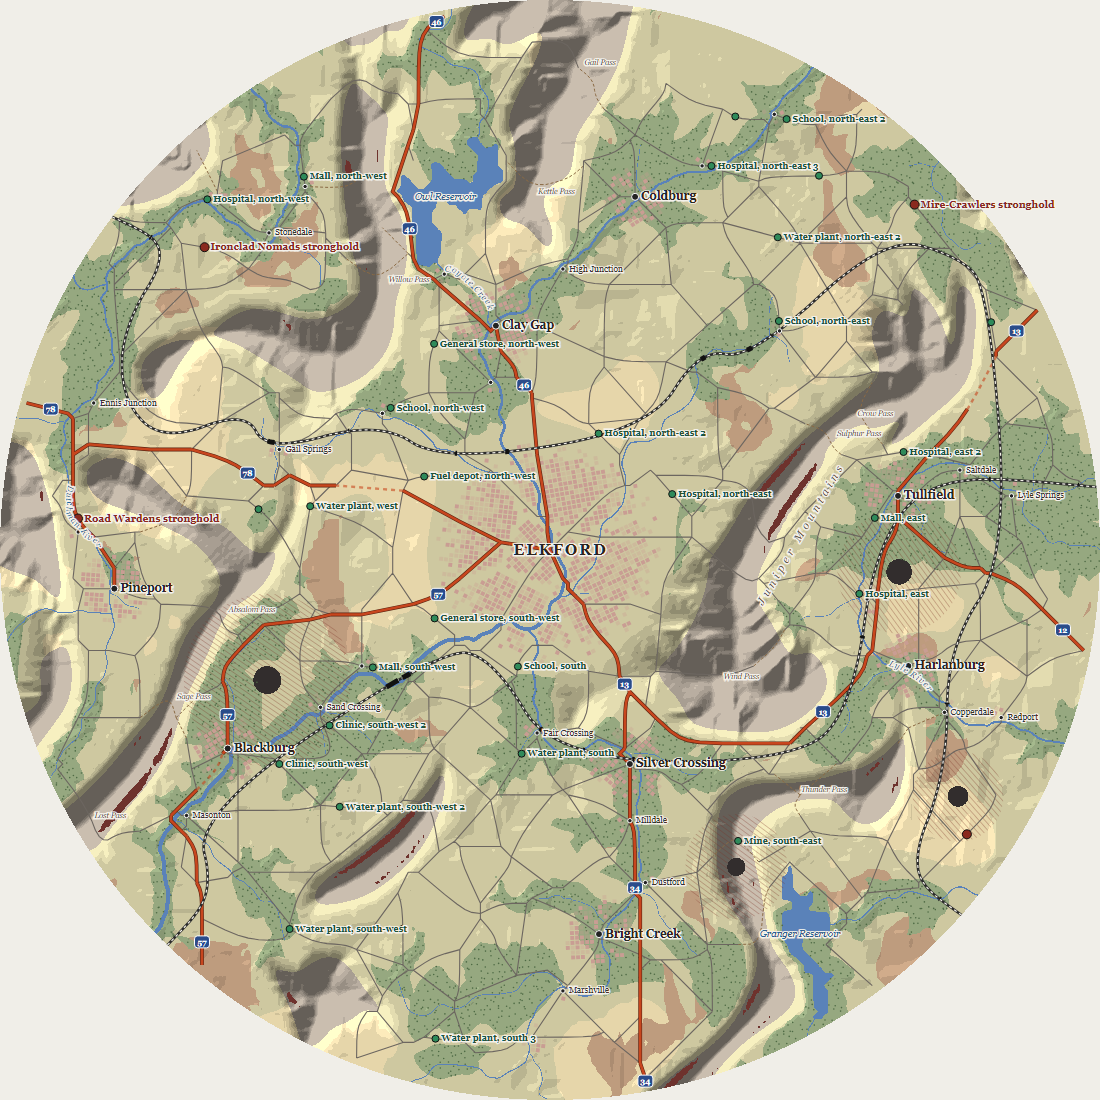
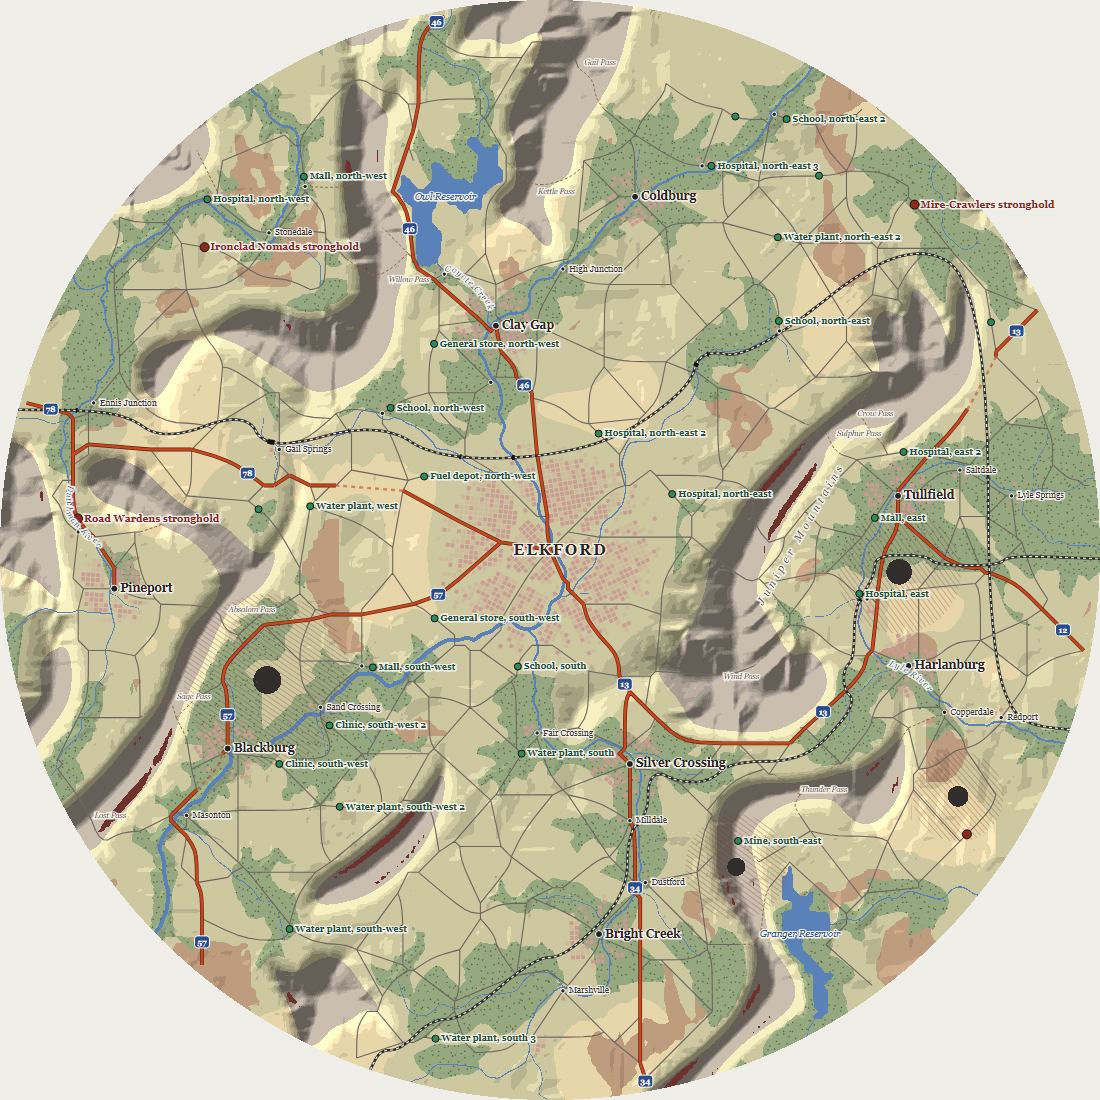
Let rails choose their ends along the rim, and redraw lines that double back or run beside another
Each end is any open cell within its window, so a line leaves the map the way it arrives instead of hooking round to a fixed point. A line that turns back on itself or runs within 30 units of an earlier one for over 300 is redrawn, up to six tries, the first end turned on later ones and the last without the rim cost. The coarse field is built only inside the disc, and the search's distance guess is worked out once a cell.

diff --git a/src/renderer/game/map/RailLines.ts b/src/renderer/game/map/RailLines.ts
@@ -1,5 +1,5 @@
 import type { Rng } from '../core/Rng';
-import { Vector, chaikin, pointAlong, polylineLength, unitVector } from './Geometry';
+import { Vector, chaikin, pointAlong, pointSegmentDistanceSquared, polylineLength, unitVector } from './Geometry';
 import { RELIEF } from './Land';
 import { LandGrid, cellAt, cellCentre } from './LandGrid';
 import { NodeHeap } from './NodeHeap';
@@ -36,20 +36,26 @@ export interface RailLine {
  *   earlier line, the move costs `apartCost` times as much, so lines keep
  *   apart, even down one valley, but can still cross. Past `rim.band` of
  *   the radius it costs `rim.cost` times more, so a line crosses the rim
- *   at its ends rather than running round it.
+ *   at its ends rather than running round it; the last try goes without
+ *   that, since it can leave no way across but back on itself.
  * - Each line's ends are rim points, the second `across` degrees round from
- *   the first, each the lowest of the bearings `spread` degrees either side
- *   in `step`-degree steps; the lines' first ends are spread evenly round
- *   half the rim from a drawn bearing.
+ *   the first: the search runs from any open cell just inside the rim within
+ *   `spread` degrees of one end's bearing, in `step`-degree steps, to any
+ *   within `spread` of the other's, so a line leaves the map the way it
+ *   arrives rather than hooking round to a set point. The lines' first ends
+ *   are spread evenly round half the rim from a drawn bearing.
  * - The path is simplified to `tolerance` coarse cells and cut by Chaikin
  *   `passes` times; where the curve clips a lake, crater, or cliff (sampled
  *   every `sample` world units) or puts a deck past `longestDeck` world
  *   units over a river, the next tolerance down is tried, then the cells
  *   themselves. Bridges are merged across gaps under `deckGap`.
- * - A line whose heading turns past `hairpin.dot` (the cosine between its
- *   direction at two points up to `hairpin.window` world units apart, -0.85
- *   being about 150 degrees) is dropped, and its second end drawn again, up to `tries`
- *   times.
+ * - A line is dropped, and drawn again, up to `tries` times in all, its
+ *   second end drawn afresh and, after the first try, its first turned up to
+ *   `turn` degrees either way, where it finds no way, where it doubles back (its heading, read
+ *   every `hairpin.step` world units, turns past `hairpin.dot`, about 150
+ *   degrees, within `hairpin.window`), or where it runs within
+ *   `beside.reach` world units of an earlier line for more than
+ *   `beside.most`, read every `beside.step`.
  */
 export const RAIL_LINES = {
 	coarse: 2,
@@ -62,7 +68,9 @@ export const RAIL_LINES = {
 	apartCost: 6,
 	rim: { band: 0.88, cost: 3 },
 	hairpin: { window: 200, dot: -0.85, step: 20 },
-	tries: 3,
+	beside: { reach: 30, most: 300, step: 10 },
+	tries: 6,
+	turn: 25,
 	across: { least: 140, most: 220 },
 	spread: 25,
 	step: 2.5,
@@ -110,14 +118,23 @@ export function railLines({ ground, grid, mountains, lowland, area, threshold, c
 		const own = rng.fork('rail', index);
 		const first = spin + 180 * index / count;
 		for (let attempt = 0; attempt < RAIL_LINES.tries; attempt += 1) {
+			// Both draws every try, so a try's ends never depend on whether an earlier one used its turn.
+			const turned = first + (attempt === 0 ? 0 : (own.float() * 2 - 1) * RAIL_LINES.turn);
 			const second = first + RAIL_LINES.across.least + (RAIL_LINES.across.most - RAIL_LINES.across.least) * own.float();
-			const line = field.lay(first, second);
+			const line = field.lay({ from: turned, to: second, rim: attempt < RAIL_LINES.tries - 1 });
 			if (line === null) continue;
 			lines.push(line);
 			break;
 		}
 	}
 	return lines;
+}
+
+/** A cell a line can start or end on, just inside the rim, and the rim point beyond it. */
+interface RimEnd {
+	readonly cell: number;
+	readonly rimX: number;
+	readonly rimY: number;
 }
 
 const NEIGHBOURS = [[1, 0], [-1, 0], [0, 1], [0, -1], [1, 1], [-1, 1], [1, -1], [-1, -1]] as const;
@@ -138,6 +155,10 @@ class RailField {
 	private readonly crowded: Uint8Array;
 	/** Per coarse cell, 1 past `rim.band` of the radius. */
 	private readonly outer: Uint8Array;
+	/** What a move past the rim band costs times, for the line being laid. */
+	private rimCost = 1;
+	/** The lines laid so far. */
+	private readonly laid: (readonly number[])[] = [];
 
 	constructor({ ground, grid, mountains, lowland, area, threshold }: Omit<RailLineOptions, 'count' | 'rng'>) {
 		this.ground = ground;
@@ -159,6 +180,8 @@ class RailField {
 			for (let column = 0; column < this.size; column += 1) {
 				const x = this.centre(column);
 				const cell = row * this.size + column;
+				// Past the reach a cell stays closed, so nothing about it is needed.
+				if (x * x + y * y > reach * reach) continue;
 				const under = cellAt(grid, x, y);
 				this.height[cell] = ground.elevation(x, y) * RELIEF;
 				this.mask[cell] = under < 0 ? 0 : mountains[under];
@@ -176,25 +199,29 @@ class RailField {
 					}
 				}
 				this.river[cell] = river;
-				this.open[cell] = x * x + y * y <= reach * reach && clear ? 1 : 0;
+				this.open[cell] = clear ? 1 : 0;
 				this.outer[cell] = x * x + y * y > band * band ? 1 : 0;
 			}
 		}
 	}
 
-	/** A line from the rim at bearing `from` to the rim at bearing `to`, or null where none fits. */
-	public lay(from: number, to: number): RailLine | null {
-		const start = this.endAt(from);
-		const end = this.endAt(to);
-		if (start === null || end === null || start.cell === end.cell) return null;
-		const cells = this.search(start.cell, end.cell);
+	/** A line from the rim at bearing `from` to the rim at bearing `to`, kept off the rim between them when `rim`, or null where none fits. */
+	public lay({ from, to, rim }: { from: number; to: number; rim: boolean }): RailLine | null {
+		this.rimCost = rim ? 1 + RAIL_LINES.rim.cost : 1;
+		const starts = this.endsAt(from);
+		const ends = this.endsAt(to);
+		if (starts.length === 0 || ends.length === 0 || starts.some(({ cell }) => ends.some((end) => end.cell === cell))) return null;
+		const cells = this.search(starts, ends);
 		if (cells === null) return null;
+		const start = starts.find(({ cell }) => cell === cells[0]) as RimEnd;
+		const end = ends.find(({ cell }) => cell === cells[cells.length - 1]) as RimEnd;
 		const path: number[] = [start.rimX, start.rimY];
 		for (const cell of cells) path.push(this.centre(cell % this.size), this.centre(floor(cell / this.size)));
 		path.push(end.rimX, end.rimY);
 		const points = this.smooth(path);
-		if (points === null || hairpin(points)) return null;
+		if (points === null || hairpin(points) || this.beside(points)) return null;
 		this.mark(cells);
+		this.laid.push(points);
 		return Object.freeze({ points: Object.freeze(points), length: polylineLength(points), bridges: Object.freeze(this.bridges(points)) });
 	}
 
@@ -202,52 +229,61 @@ class RailField {
 		return -this.halfExtent + (index + 0.5) * this.cellSize;
 	}
 
-	/** The lowest open cell just inside the rim within `spread` degrees of a bearing, and the rim point beyond it. */
-	private endAt(bearing: number): { cell: number; rimX: number; rimY: number } | null {
+	/** The open cells just inside the rim within `spread` degrees of a bearing, each with the rim point beyond it, each cell once. */
+	private endsAt(bearing: number): RimEnd[] {
 		const towards: Vector = { x: 0, y: 0 };
 		const inside = this.ground.radius - (RAIL_LINES.inset + 0.75) * this.cellSize;
-		let best: { cell: number; rimX: number; rimY: number } | null = null;
-		let lowest = Infinity;
-		// Out from the bearing asked for, either way in turn, so a tie goes to the nearer.
-		for (let offset = 0; offset <= 2 * RAIL_LINES.spread / RAIL_LINES.step; offset += 1) {
-			const turn = (offset % 2 === 0 ? 1 : -1) * floor((offset + 1) / 2) * RAIL_LINES.step;
+		const ends: RimEnd[] = [];
+		for (let turn = -RAIL_LINES.spread; turn <= RAIL_LINES.spread; turn += RAIL_LINES.step) {
 			unitVector(bearing + turn, towards);
 			const cell = this.cellOf(towards.x * inside, towards.y * inside);
-			if (cell < 0 || this.open[cell] === 0 || this.river[cell] === 1) continue;
-			if (this.height[cell] < lowest) {
-				lowest = this.height[cell];
-				best = { cell, rimX: towards.x * this.ground.radius, rimY: towards.y * this.ground.radius };
-			}
+			if (cell < 0 || this.open[cell] === 0 || this.river[cell] === 1 || ends.some((end) => end.cell === cell)) continue;
+			ends.push({ cell, rimX: towards.x * this.ground.radius, rimY: towards.y * this.ground.radius });
 		}
-		return best;
+		return ends;
 	}
 
 	private cellOf(x: number, y: number): number {
 		return cellAt({ size: this.size, cellSize: this.cellSize, halfExtent: this.halfExtent }, x, y);
 	}
 
-	/** A* from cell to cell over open cells, ties to the lower cell: the cells in order, or null when nothing joins them. */
-	private search(from: number, to: number): number[] | null {
+	/** A* from any of `starts` to any of `goals` over open cells, ties to the lower cell: the cells in order, or null when nothing joins them. */
+	private search(starts: readonly RimEnd[], goals: readonly RimEnd[]): number[] | null {
 		const size = this.size;
 		const cells = size * size;
 		const cost = new Float64Array(cells).fill(Infinity);
 		const came = new Int32Array(cells).fill(-1);
 		const done = new Uint8Array(cells);
 		const heap = new NodeHeap(8 * cells + 1);
-		const goalX = to % size;
-		const goalY = floor(to / size);
+		const goal = new Uint8Array(cells);
+		for (const { cell } of goals) goal[cell] = 1;
+		// The straight distance to the nearest goal, which never overestimates; worked out once a cell.
+		const guesses = new Float64Array(cells).fill(-1);
 		const heuristic = (cell: number): number => {
-			const dx = (cell % size) - goalX;
-			const dy = floor(cell / size) - goalY;
-			return sqrt(dx * dx + dy * dy) * this.cellSize;
+			if (guesses[cell] >= 0) return guesses[cell];
+			let nearest = Infinity;
+			for (const end of goals) {
+				const dx = (cell % size) - (end.cell % size);
+				const dy = floor(cell / size) - floor(end.cell / size);
+				const squared = dx * dx + dy * dy;
+				if (squared < nearest) nearest = squared;
+			}
+			guesses[cell] = sqrt(nearest) * this.cellSize;
+			return guesses[cell];
 		};
-		cost[from] = 0;
-		heap.push(from, heuristic(from));
+		for (const { cell } of starts) {
+			cost[cell] = 0;
+			heap.push(cell, heuristic(cell));
+		}
+		let reachedGoal = -1;
 		while (heap.size > 0) {
 			const cell = heap.pop();
 			if (done[cell] === 1) continue;
 			done[cell] = 1;
-			if (cell === to) break;
+			if (goal[cell] === 1) {
+				reachedGoal = cell;
+				break;
+			}
 			const column = cell % size;
 			const row = floor(cell / size);
 			for (const [dx, dy] of NEIGHBOURS) {
@@ -267,9 +303,9 @@ class RailField {
 				}
 			}
 		}
-		if (done[to] === 0) return null;
+		if (reachedGoal < 0) return null;
 		const path: number[] = [];
-		for (let cell = to; cell !== -1; cell = came[cell]) path.push(cell);
+		for (let cell = reachedGoal; cell !== -1; cell = came[cell]) path.push(cell);
 		return path.reverse();
 	}
 
@@ -281,7 +317,7 @@ class RailField {
 		let step = length * (1 + RAIL_LINES.grade * grade * grade) * (1 + RAIL_LINES.valley * above) + RAIL_LINES.ranges * mask * length;
 		step += RAIL_LINES.bridge * (this.river[from] + this.river[to]);
 		if (this.crowded[from] > 0 || this.crowded[to] > 0) step *= RAIL_LINES.apartCost;
-		if (this.outer[from] > 0 || this.outer[to] > 0) step *= 1 + RAIL_LINES.rim.cost;
+		if (this.outer[from] > 0 || this.outer[to] > 0) step *= this.rimCost;
 		return step;
 	}
 
@@ -339,6 +375,21 @@ class RailField {
 	}
 
 	/** Marks the cells within `apart` of a laid line, so the next keeps its distance. */
+	/** Whether a line runs within `beside.reach` of one laid already for more than `beside.most`. */
+	private beside(points: readonly number[]): boolean {
+		if (this.laid.length === 0) return false;
+		const { reach, most, step } = RAIL_LINES.beside;
+		const at = { x: 0, y: 0 };
+		const length = polylineLength(points);
+		let near = 0;
+		for (let along = 0; along <= length; along += step) {
+			pointAlong(points, along, at);
+			if (this.laid.some((line) => nearLine(line, at.x, at.y, reach))) near += step;
+			if (near > most) return true;
+		}
+		return false;
+	}
+
 	private mark(cells: readonly number[]): void {
 		const size = this.size;
 		const apart = RAIL_LINES.apart;
@@ -378,6 +429,21 @@ function hairpin(points: readonly number[]): boolean {
 		for (let ahead = 1; ahead <= reach && index + 2 * ahead < headings.length; ahead += 1) {
 			if (headings[index] * headings[index + 2 * ahead] + headings[index + 1] * headings[index + 2 * ahead + 1] < dot) return true;
 		}
+	}
+	return false;
+}
+
+/** Whether (x, y) lies within `reach` of a polyline. */
+function nearLine(points: readonly number[], x: number, y: number, reach: number): boolean {
+	const squared = reach * reach;
+	for (let index = 0; index + 3 < points.length; index += 2) {
+		const ax = points[index];
+		const ay = points[index + 1];
+		const bx = points[index + 2];
+		const by = points[index + 3];
+		// Segments whose box is out of reach can't be near.
+		if ((ax < bx ? ax : bx) > x + reach || (ax > bx ? ax : bx) < x - reach || (ay < by ? ay : by) > y + reach || (ay > by ? ay : by) < y - reach) continue;
+		if (pointSegmentDistanceSquared(x, y, ax, ay, bx, by) <= squared) return true;
 	}
 	return false;
 }

diff --git a/src/renderer/game/map/StreetGrids.ts b/src/renderer/game/map/StreetGrids.ts
@@ -42,9 +42,10 @@ export interface StreetDistrict {
  * - `edge`: the ruin's edge, drawn per block from 1 - `edge` / 2 to
  *   1 + `edge` / 2 times the ruin's radius, so it's ragged.
  * - `districts`: the metro's, `base` plus one per `per` world units of the
- *   radius its grids cover (less below the default dressing), at most `most`; the first at the middle within `centre` of the
- *   radius, the rest `inner` to `outer` of it out, evenly round and jittered
- *   by up to `jitter` of the gap between them. Their grids' angles are
+ *   radius its grids cover (less below the default dressing), at most
+ *   `most`; the first at the middle within `centre` of the radius, the
+ *   rest `inner` to `outer` of it out, evenly round and jittered by up to
+ *   `jitter` of the gap between them. Their grids' angles are
  *   spread evenly over a quarter turn from a drawn one, in a shuffled order,
  *   each jittered by up to `jitter` of the step, so any two differ by at
  *   least half a step.

diff --git a/src/renderer/game/map/MapLabels.ts b/src/renderer/game/map/MapLabels.ts
@@ -307,6 +307,11 @@ function namedRanges({ radius, land }: MapLabelOptions): FoundRange[] {
 	const seen = new Uint8Array(size * size);
 	const found: (FoundRange & { first: number })[] = [];
 	const stack: number[] = [];
+	const visit = (next: number): void => {
+		if (seen[next] === 1 || !inRange(next)) return;
+		seen[next] = 1;
+		stack.push(next);
+	};
 	for (let first = 0; first < size * size; first += 1) {
 		if (seen[first] === 1 || !inRange(first)) continue;
 		seen[first] = 1;
@@ -331,11 +336,6 @@ function namedRanges({ radius, land }: MapLabelOptions): FoundRange[] {
 			sumXY += x * y;
 			sumYY += y * y;
 			if (elevation[cell] > peak) peak = elevation[cell];
-			const visit = (next: number): void => {
-				if (seen[next] === 1 || !inRange(next)) return;
-				seen[next] = 1;
-				stack.push(next);
-			};
 			if (column > 0) visit(cell - 1);
 			if (column < size - 1) visit(cell + 1);
 			if (row > 0) visit(cell - size);

diff --git a/docs/AI_TECHNICAL_DECISIONS/dressing.md b/docs/AI_TECHNICAL_DECISIONS/dressing.md
@@ -60,7 +60,7 @@ Each town and village gets one grid at a drawn rotation, centred on the place; t
 - Metro districts: 2 plus one per 50 units of the radius the grids cover, at most 7: 5 at the default metro of 150 and the default dressing, fewer below it. The first sits within 0.15 of the radius of the middle, the rest 0.45 to 0.8 out, evenly round and jittered by a quarter of the gap. A block corner belongs to the district whose seed is nearest by 2 units or more, so neighbouring grids stop short of the line between them and their streets meet along it, the old district line.
 - District angles: spread evenly over a quarter turn from a drawn angle, in a shuffled order, each jittered by a quarter step, so any two differ by at least half a step (9 degrees for five). A first cut drew each angle and redrew within 15 degrees of another; five districts can't all keep 15 degrees apart in a quarter turn, and two came out 0.2 degrees apart.
 
-Rust Belt 11 at radius 1000: 38 districts, 865 blocks standing and 710 rubble.
+Rust Belt 11 at radius 1000: 38 districts, 865 blocks standing and 717 rubble.
 
 ## Rail lines
 
@@ -68,10 +68,10 @@ Rust Belt 11 at radius 1000: 38 districts, 865 blocks standing and 710 rubble.
 
 - A coarse cell is open where nothing a rail can't cross (a lake, a crater, a cliff) stands at its centre or at the centres of the four land cells under it, so a step between two open cells seldom clips one.
 - A move costs its length times one plus 400 times its grade squared, times one plus 1.5 times how far it stands above the low ground (the water's lowland, 1 on a valley floor), plus 4 times the range mask times its length, plus 40 units for each end on a river cell, any land cell of the four under it carrying the stream threshold's drainage. Lakes, craters, and cliffs are closed, and a diagonal needs both cells beside it open. So lines take valley floors and gentle grades, and cross a river rather than running along it; a first cut, charging 6 for a river cell at its centre only, ran a line down the river with a 60-unit "bridge".
-- Line k's first end is at a bearing spread evenly round half the rim from a drawn one, the second 140 to 220 degrees round from it; each end is the lowest open cell just inside the rim within 25 degrees of its bearing, the line running on to the rim beyond it.
+- Line k's first end is at a bearing spread evenly round half the rim from a drawn one, the second 140 to 220 degrees round from it. The search runs from any open cell just inside the rim within 25 degrees of the first bearing to any within 25 of the second, and the line runs on to the rim beyond the cells it took. A first cut fixed each end at the lowest ground in its window, and the line hooked back to reach it: Mixed 8 lost its only line to that.
 - A line keeps 6 cells off an earlier one by costing six times as much there; it can still cross. At twice, QA found two lines braiding down one valley on Rust Belt 11 (486 units within 30 of each other).
 - Past 0.88 of the radius a move costs four times as much, so a line crosses the rim at its ends rather than running round it; without it, High Desert 3's line ran 1,135 of its 2,997 units along the rim.
-- A line whose direction turns more than about 150 degrees within 200 units (the cosine between two headings read 20 units apart under -0.85) is a hairpin: it's dropped and its second end drawn again, up to three tries.
+- A line is dropped and drawn again, up to six tries in all, where it finds no way, where it doubles back (its heading, read every 20 units, turns more than about 150 degrees, a cosine under -0.85, within 200 units), or where it runs within 30 units of an earlier line for more than 300. Each try draws the second end afresh and, after the first, turns the first up to 25 degrees either way; the last goes without the rim cost, which can leave a line no way across but back on itself. Over 30 maps at the defaults (five environments by seeds 21 to 26) every line asked for was laid; at three lines, High Desert 44 lays two.
 - The cells are simplified by Douglas-Peucker at 2 cells and cut by Chaikin four times. Where that clips a lake, crater, or cliff (sampled every unit) or lays a deck over 30 units, tolerances of 1 and 0.5 cells are tried, then the cells themselves.
 - Bridges are where the line's samples fall in river water, merged across gaps of 2 units or less.
 
@@ -125,10 +125,10 @@ Within a kind, a label gains under 1 by size: a town's or village's ruins, a lak
 
 | Radius | Dressing, ms median (slowest) | Stops | Terrain | Roads |
 | --- | --- | --- | --- | --- |
-| 1000 | 26 (39) | 2 | 160 | 169 |
-| 1200 | 33 (42) | 2 | 228 | 231 |
+| 1000 | 42 (52) | 4 | 224 | 276 |
+| 1200 | 45 (93) | 4 | 304 | 364 |
 
-The graph stages' budget is 200 ms on a mid-range laptop; the route tree, POIs, stops, and dressing come to about 30 ms here at radius 1000 and 37 at 1200. The rails are the largest share, their coarse grid and searches; a first cut that sampled the land between every pair of cells a move joined took 47 ms for two lines on its own. One map's first run in a fresh process, as `dressing` reports, takes about twice the bench's median: cold code, which a fresh worker also starts with.
+The desktop was busy with other work for this run: the terrain took 160 ms at radius 1000 on a quieter one, when the dressing took 26. The graph stages' budget is 200 ms on a mid-range laptop; the route tree, POIs, stops, and dressing come to about 50 ms here at radius 1000, 100 at the slowest map at 1200, where the rails took six tries. The rails are the largest share: their coarse grid, built only inside the disc, and a search a try; a first cut that sampled the land between every pair of cells a move joined took 47 ms for two lines on its own. One map's first run in a fresh process, as `dressing` reports, takes about twice the bench's median: cold code, which a fresh worker also starts with.
 
 ## Testing
 
@@ -141,7 +141,7 @@ Calls the spec left to the build, made the simplest way consistent with it, for 
 1. The dressing is a pipeline stage marked inert: it retries only itself, nothing gameplay follows it, and a replay without its attempt runs its first, so saves made before it load and no version bump is needed for it.
 2. Street grids: spacing 14 to 8 units by `streetGrids`; survival 0.3 to 0.9 by `streetGrids`, falling by 0.6 of the squared share out; a ragged edge 0.15 either side of the ruin's radius; no block on water, a crater, a cliff, or under a road or rail.
 3. The metro is 2 plus one district per 50 units of its radius, at most 7 (5 at the default), angles spread evenly over a quarter turn and jittered a quarter step; districts stop 2 units short of the line between them.
-4. Rails: grade weight 400 on the grade squared, 1.5 for standing above the low ground, 4 for range country, 40 a river cell, six times the cost within 6 cells of an earlier line, four times past 0.88 of the radius; a line turning more than about 150 degrees within 200 units redrawn, up to three tries; ends 140 to 220 degrees apart round the rim, each at the lowest ground within 25 degrees; Douglas-Peucker at 2, 1, then 0.5 coarse cells and four Chaikin passes; no deck over 30 units.
+4. Rails: grade weight 400 on the grade squared, 1.5 for standing above the low ground, 4 for range country, 40 a river cell, six times the cost within 6 cells of an earlier line, four times past 0.88 of the radius (not on the last try); a line turning more than about 150 degrees within 200 units, or within 30 units of an earlier line for more than 300, redrawn, up to six tries; ends 140 to 220 degrees apart round the rim, each anywhere open within 25 degrees, the search choosing; Douglas-Peucker at 2, 1, then 0.5 coarse cells and four Chaikin passes; no deck over 30 units.
 5. Hatching to where a plume falls to 0.15 contamination, 8 units between lines at 45 degrees, turned up to 15 either way; stipple a dot to a 12-unit cell.
 6. `dressing` thins grids and rails below its default and keeps them to their parameters above it; hatching, stipple, and feature labels scale with it on up; at 0, only the labels of what play uses are left.
 7. Label priorities as tabled: metro 100, strongholds 95, POIs 90, towns 80, shields 70, ranges 65, lakes and reservoirs 60, rivers 55, villages 50, passes 40, plus under 1 by size within a kind.
